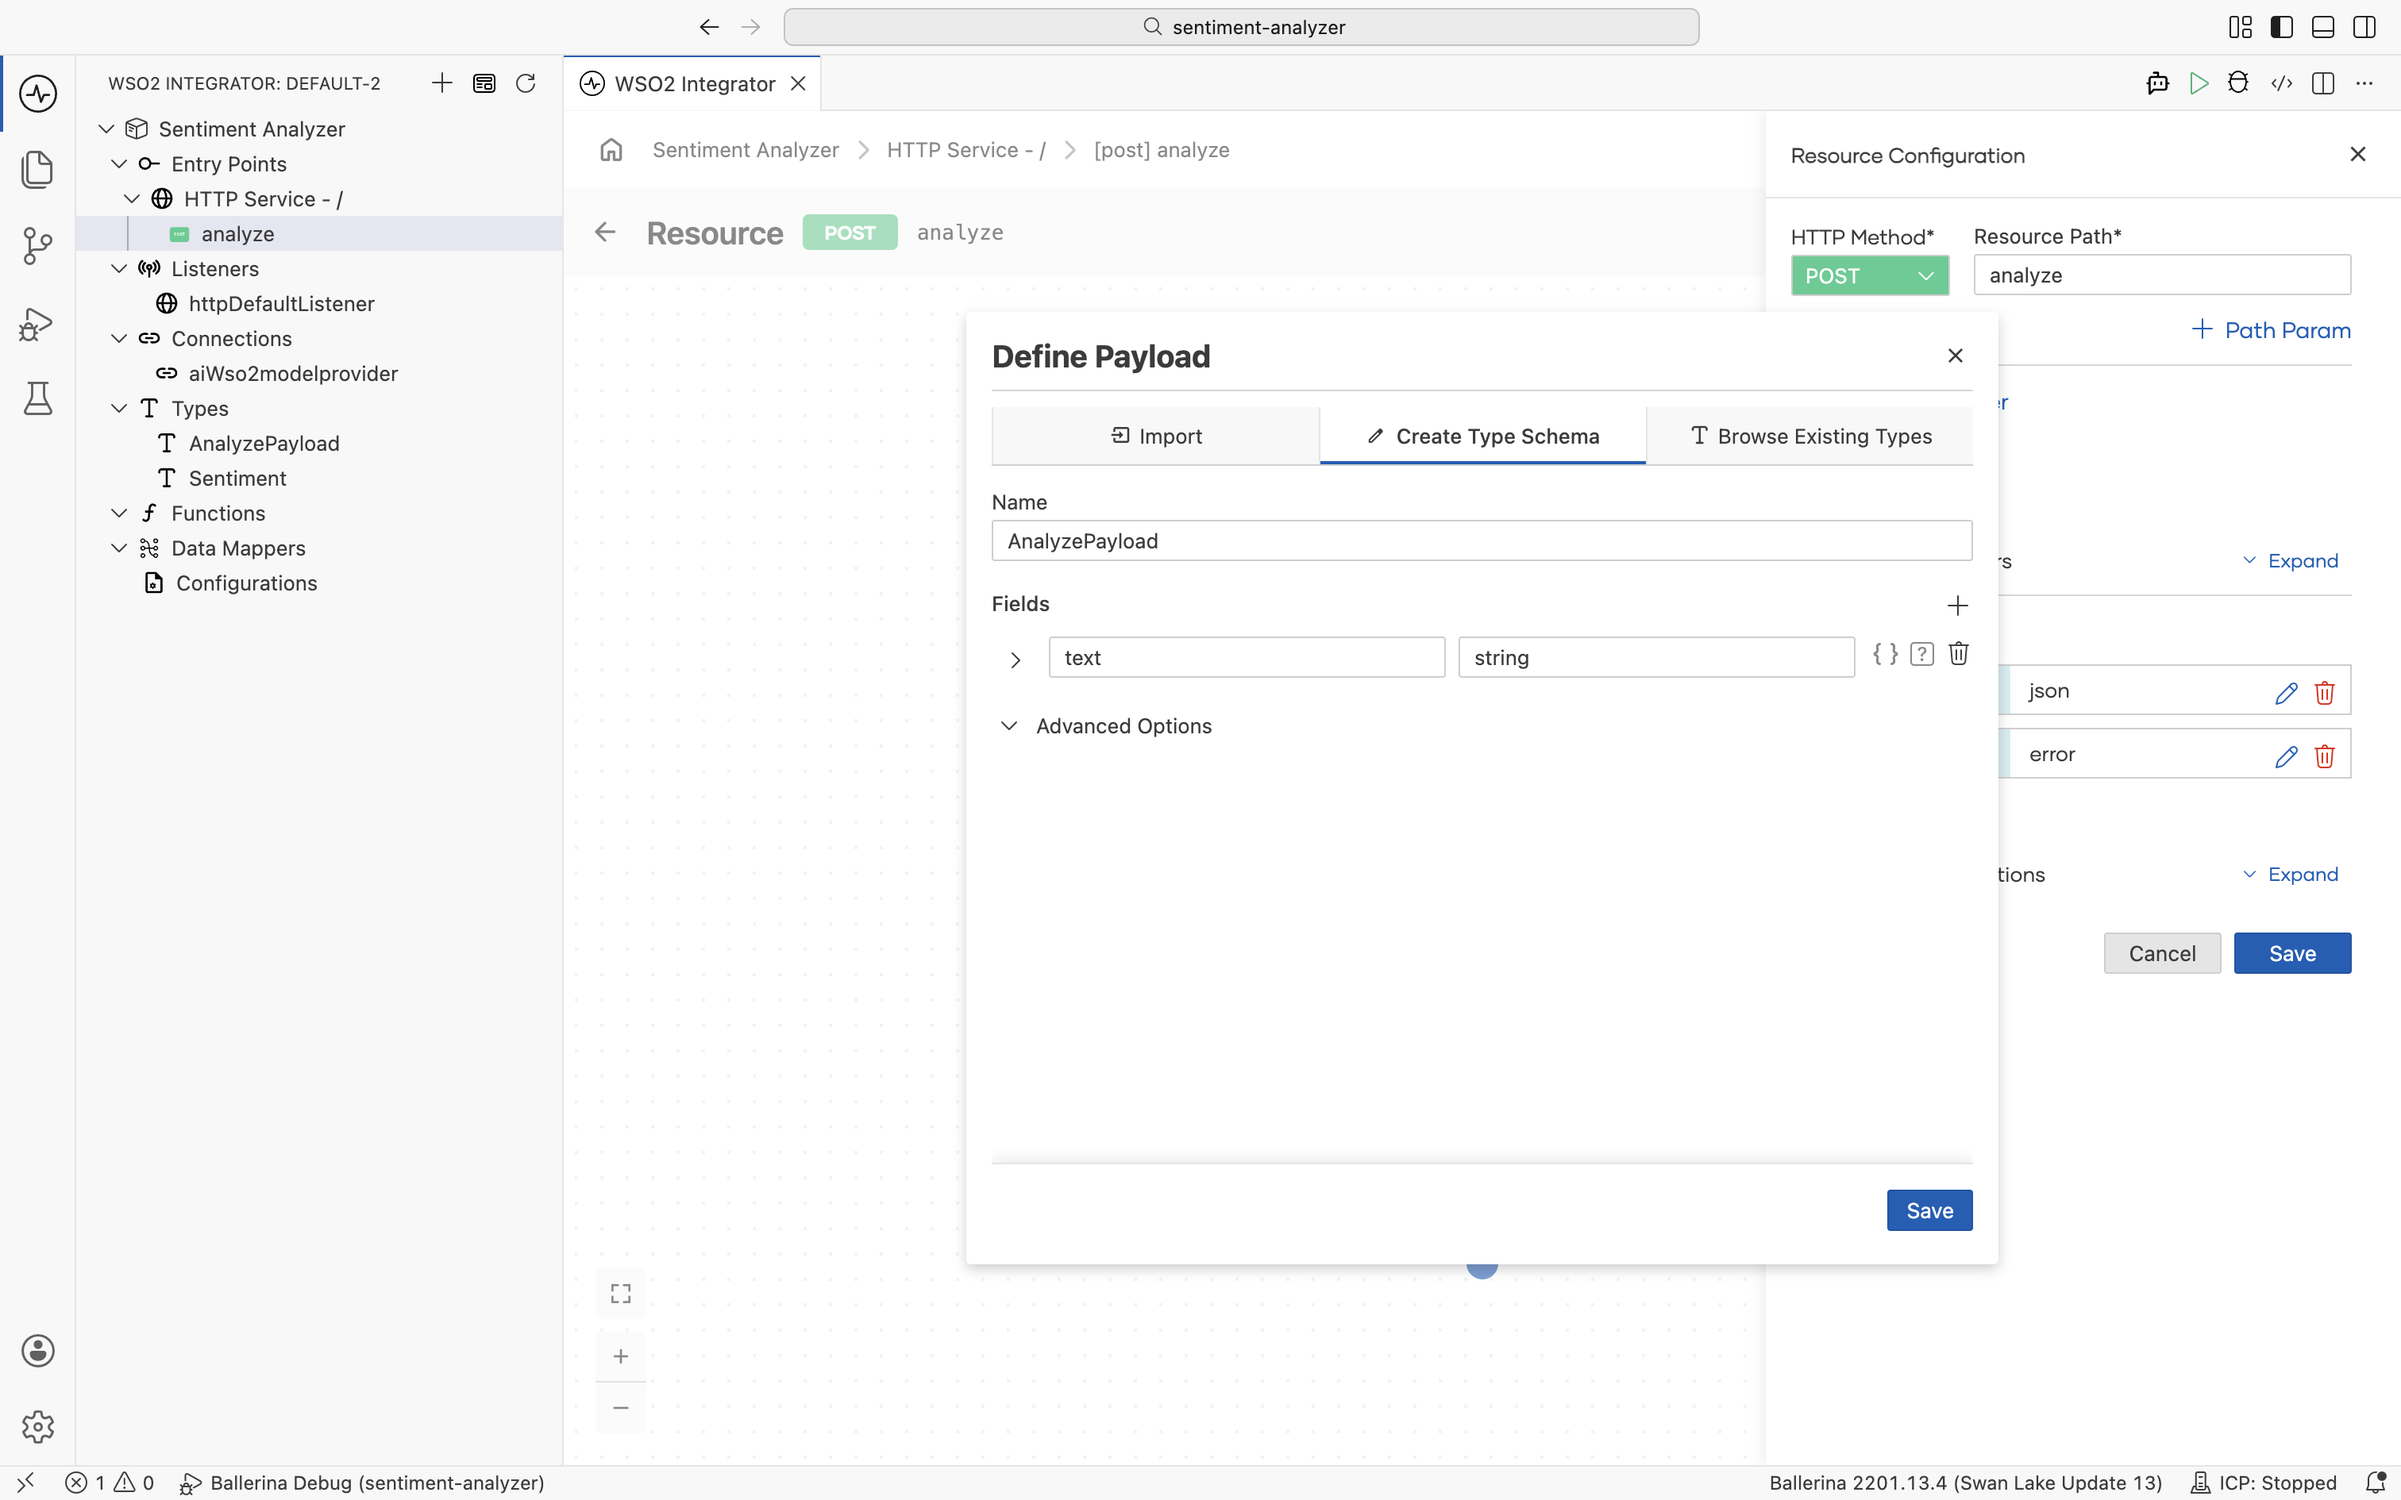
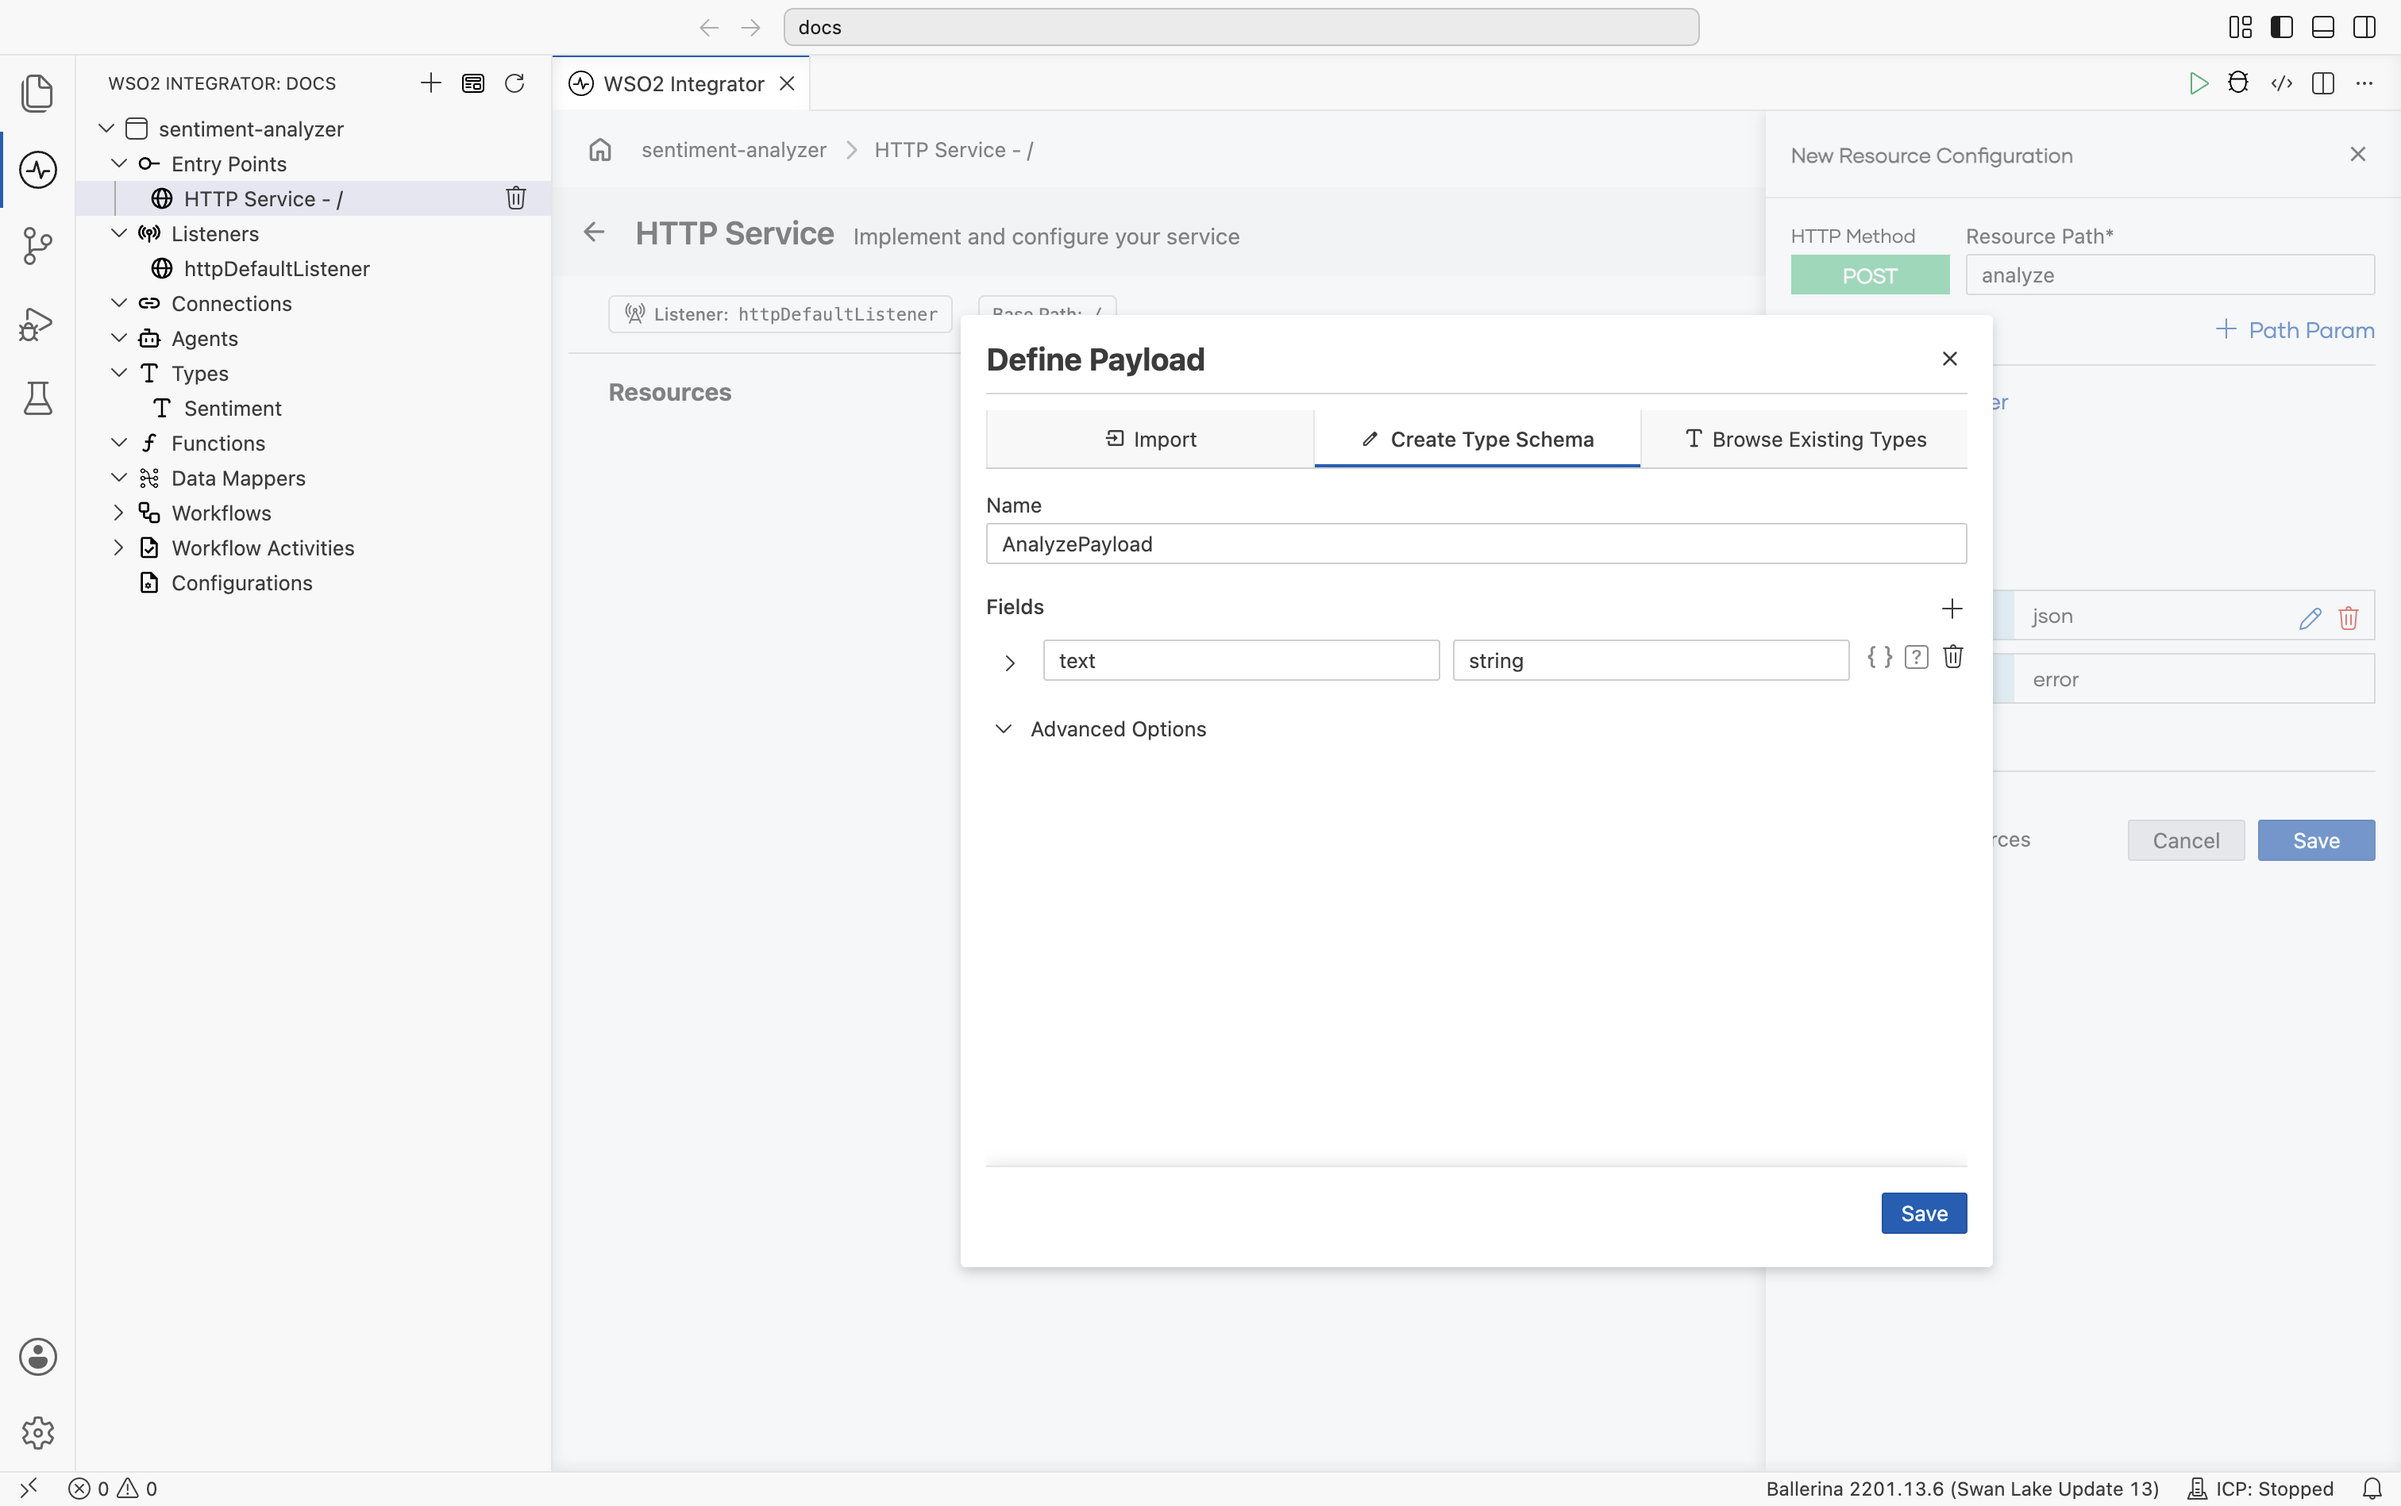
docs(genai): update sentiment analyzer quick start for new WSO2 Integrator UI

diff --git a/en/versioned_docs/version-5.0.0/genai/getting-started/build-a-sentiment-analyzer.md b/en/versioned_docs/version-5.0.0/genai/getting-started/build-a-sentiment-analyzer.md
@@ -28,10 +28,19 @@ A direct LLM call is the simplest way to use AI in an integration: you send a pr
 ## Step 1: Add an HTTP service
 
 1. Select your integration from the Project overview canvas.
-2. In the Design canvas, select **Add Artifact**.
-3. Select **HTTP Service** under **Integration as API**.
+2. On the **Design** tab, select **Add Artifact manually** below the WSO2 Integrator Copilot's quick-start cards.
+3. On the Artifacts page, select **HTTP Service** under **Integration as API**.
+
+<ThemedImage
+    alt="Artifacts page listing artifact types such as Automation, AI Integration, and Integration as API, with HTTP Service highlighted"
+    sources={{
+        light: useBaseUrl('/img/genai/getting-started/build-a-sentiment-analyzer/artifacts-picker.png'),
+        dark: useBaseUrl('/img/genai/getting-started/build-a-sentiment-analyzer/artifacts-picker.png'),
+    }}
+/>
+
 4. Keep **Service Contract** as **Design From Scratch**.
-5. Set **Service Base Path** to `/`.
+5. Keep **Service Base Path** as `/`.
 6. Select **Create**.
 
 <ThemedImage
@@ -75,7 +84,8 @@ The LLM call returns one of three values. Define an enum so Ballerina can enforc
     }}
 />
 
-6. Select **Save** on the payload panel, then **Save** on the resource.
+6. Select **Save** on the payload panel. The resource configuration also lets you add **Query Parameter** and **Header** fields, and it prefills the response codes with `201` (`json`) and `500` (`error`). Leave these at their defaults for this quick start.
+7. Select **Save** on the resource.
 
 <ThemedImage
     alt="POST analyze resource configured with the AnalyzePayload request body"
@@ -87,18 +97,29 @@ The LLM call returns one of three values. Define an enum so Ballerina can enforc
 
 ## Step 4: Add a direct LLM call
 
-1. Select **+** inside the resource flow.
+The resource opens as a visual flow with **Start** connected to an **Error Handler**.
+
+1. Select **+** on the connector between **Start** and **Error Handler**.
 2. Select **Model Provider** under **Direct LLM**.
 3. Select **+ Add Model Provider**, then choose **WSO2 Model Provider**.
-4. Keep the default name and select **Save**. The provider is added under **Connections**.
-5. Select the **Generate** action.
-6. Set **Prompt** to `Classify the sentiment of this customer review and provide a confidence score between 0.0 and 1.0 indicating how confident you are in the classification. Review: ${payload.text}`.
-7. Set the result variable name to `sentimentResult`.
-8. For **Expected Type**, create a new record type `SentimentResult` with two fields: `sentiment` of type `Sentiment` and `confidence` of type `float`. Select **Save** in the type creator.
-9. Back in the Generate panel, select `SentimentResult` in the **Expected Type** field, then select **Save**.
+4. Keep the default name and select **Save**. The provider is added under **Connections** as `aiWso2modelprovider`, and a confirmation message confirms the default configuration values were added.
 
 <ThemedImage
-    alt="Configuring the Generate action with the classification prompt and SentimentResult as the expected return type"
+    alt="Model Providers panel showing aiWso2modelprovider added to the flow between Start and Error Handler"
+    sources={{
+        light: useBaseUrl('/img/genai/getting-started/build-a-sentiment-analyzer/add-model-provider.png'),
+        dark: useBaseUrl('/img/genai/getting-started/build-a-sentiment-analyzer/add-model-provider.png'),
+    }}
+/>
+
+5. Select `aiWso2modelprovider`, then select the **generate** action.
+6. Set **Prompt** to `Classify the sentiment of this customer review and provide a confidence score between 0.0 and 1.0 indicating how confident you are in the classification. Review: ${payload.text}`.
+7. Set **Result** to `sentimentResult`.
+8. For **Expected Type**, create a new record type `SentimentResult` with two fields: `sentiment` of type `Sentiment` and `confidence` of type `float`. Select **Save** in the type creator.
+9. Back in the generate panel, select `SentimentResult` in the **Expected Type** field, then select **Save**.
+
+<ThemedImage
+    alt="Configuring the generate action with the classification prompt and SentimentResult as the expected return type"
     sources={{
         light: useBaseUrl('/img/genai/getting-started/build-a-sentiment-analyzer/add-prompt-and-return-type.png'),
         dark: useBaseUrl('/img/genai/getting-started/build-a-sentiment-analyzer/add-prompt-and-return-type.png'),
@@ -112,8 +133,10 @@ The LLM call returns one of three values. Define an enum so Ballerina can enforc
 3. Set **Expression** to `sentimentResult`.
 4. Select **Save**.
 
+The flow now shows **Start**, **ai:generate**, **Return**, and the **Error Handler** the visual designer added automatically to catch failures from the LLM call. Use the **Flow**/**Sequence** toggle at the top right to switch between the diagram and a linear step list.
+
 <ThemedImage
-    alt="Final flow with Start, ai:generate, Return, and the WSO2 model provider connection"
+    alt="Final flow with Start, ai:generate, Return, the WSO2 model provider connection, and an Error Handler"
     sources={{
         light: useBaseUrl('/img/genai/getting-started/build-a-sentiment-analyzer/final-view.png'),
         dark: useBaseUrl('/img/genai/getting-started/build-a-sentiment-analyzer/final-view.png'),
@@ -122,13 +145,14 @@ The LLM call returns one of three values. Define an enum so Ballerina can enforc
 
 ## Step 6: Run and test
 
-1. Select **Run**.
-2. Select **Try It** in the confirmation dialog.
-3. Send a `POST` to `/analyze` with the body `{"text": "Absolutely loved this product! Best purchase I made all year."}`.
-4. Confirm the response includes `"sentiment":"POSITIVE"` along with a `confidence` score.
+1. Select **Run**. WSO2 Integrator compiles and starts the integration in the terminal.
+2. Select **Try It**. A `TryIt.hurl` request file opens, prefilled with a `POST` request to `/analyze` and an example JSON body.
+3. Update the JSON body if needed, for example `{"text": "Absolutely loved this product! Best purchase I made all year."}`.
+4. Select the run icon next to the request to send it.
+5. Confirm the response shows `Status: 201 Created` with a body that includes `"sentiment": "POSITIVE"` along with a `confidence` score.
 
 <ThemedImage
-    alt="Running the integration and testing it with the Try It panel showing a POSITIVE sentiment response with a confidence score"
+    alt="Running the integration and testing it with the Hurl Client Runner's Try It panel showing a 201 Created response with a POSITIVE sentiment and a confidence score"
     sources={{
         light: useBaseUrl('/img/genai/getting-started/build-a-sentiment-analyzer/run-and-test.png'),
         dark: useBaseUrl('/img/genai/getting-started/build-a-sentiment-analyzer/run-and-test.png'),
@@ -138,7 +162,7 @@ The LLM call returns one of three values. Define an enum so Ballerina can enforc
 </TabItem>
 <TabItem value="code" label="Ballerina Code">
 
-The following Ballerina program produces the same integration shown in the Visual Designer steps. The LLM returns a `SentimentResult` record so the response includes both the sentiment and a confidence score (for example, `{"sentiment":"POSITIVE","confidence":0.98}`).
+The following Ballerina program produces the same integration shown in the Visual Designer steps. The LLM returns a `SentimentResult` record so the response includes both the sentiment and a confidence score (for example, `{"sentiment":"POSITIVE","confidence":0.98}`). The visual designer wraps the call in a `do`/`on fail` block, matching the **Error Handler** node shown in the flow.
 
 `types.bal`:
 
@@ -175,20 +199,24 @@ import ballerina/http;
 listener http:Listener httpDefaultListener = http:getDefaultListener();
 
 service / on httpDefaultListener {
-    resource function post analyze(@http:Payload AnalyzePayload payload) returns SentimentResult|error {
-        SentimentResult sentimentResult = check aiWso2modelprovider->generate(
-            `Classify the sentiment of this customer review and provide a confidence score
-            between 0.0 and 1.0 indicating how confident you are in the classification.
-            Review: ${payload.text}`
-        );
-        return sentimentResult;
+    resource function post analyze(@http:Payload AnalyzePayload payload) returns json|error {
+        do {
+            SentimentResult sentimentResult = check aiWso2modelprovider->generate(
+                `Classify the sentiment of this customer review and provide a confidence score
+                between 0.0 and 1.0 indicating how confident you are in the classification.
+                Review: ${payload.text}`
+            );
+            return sentimentResult;
+        } on fail error err {
+            return error("unhandled error", err);
+        }
     }
 }
 ```
 
-Note that `generate` takes an expected type descriptor as an argument, but it is not explicitly passed here. Ballerina infers it from the type of the variable the result is assigned to (`SentimentResult`), so the call stays concise while still being fully type-checked.
+Note that `generate` takes an expected type descriptor as an argument, but it is not explicitly passed here. Ballerina infers it from the type of the variable the result is assigned to (`SentimentResult`), so the call stays concise while still being fully type-checked. The resource itself returns `json|error`: the `do`/`on fail` block catches any error from the LLM call (the **Error Handler** node) and lets you customize the failure response, while the successful path still returns the fully typed `sentimentResult`.
 
-Run and test the integration from WSO2 Integrator using the **Try It** panel as shown in Step 6. The response will look similar to `{"sentiment":"POSITIVE","confidence":0.98}`, with the actual sentiment and confidence score determined by the model.
+Run and test the integration from WSO2 Integrator using the **Try It** panel as shown in Step 6. The response returns `Status: 201 Created` with a body similar to `{"sentiment":"POSITIVE","confidence":0.98}`, with the actual sentiment and confidence score determined by the model.
 
 </TabItem>
 </Tabs>
